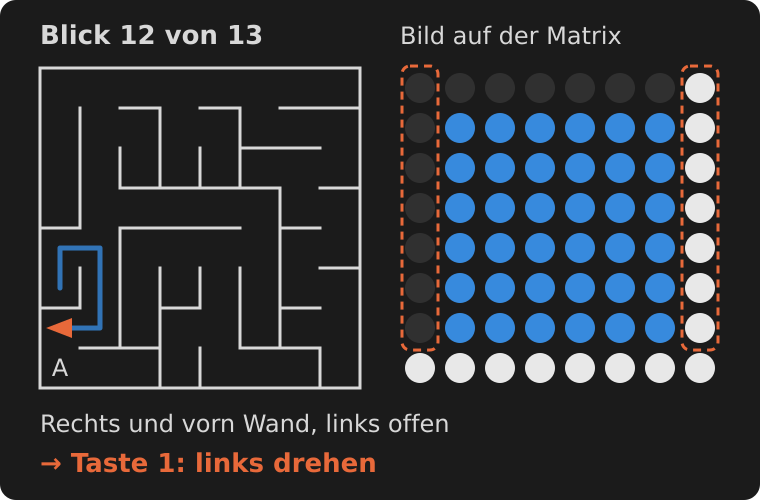
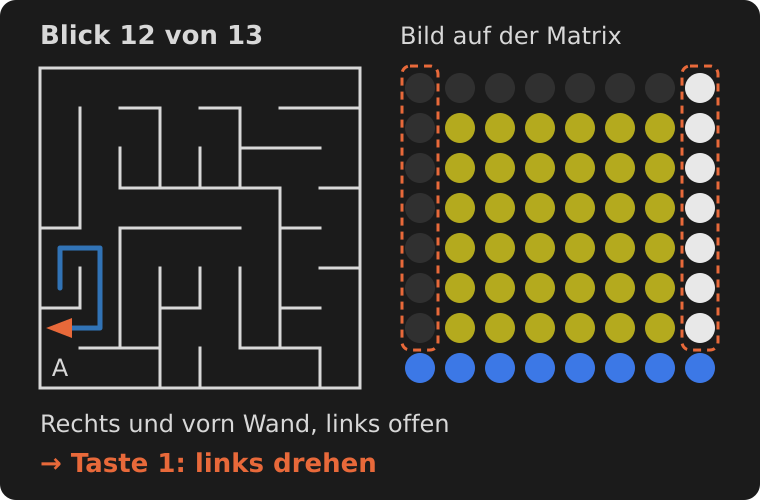
Version 14: Waende weiss, Boden blau, je drei Helligkeitsstufen; Stirnwand dunkles Gelb
Claude-Session: https://claude.ai/code/session_01U7fekmFcKLeqN7GHxQrNkj

Changed region(s): [[0.5145, 0.21, 0.9382, 0.78]]

diff --git a/irrgarten_farben.py b/irrgarten_farben.py
@@ -1,22 +1,38 @@
 # Userscript fuer den 3D-Irrgarten (irrgarten.mic) auf dem ESP2090 Studio
-# Setzt die Farbmatrix und endet. Seitenwaende und Boden eines Raums bilden einen Ring in einer Farbe,
-#   zur Ferne hin dunkler: weiss (1. Raum), gelb (2. Raum), orange (3. Raum).
+# Setzt die Farben und endet: Seitenwaende weiss, Boden blau, beide zur Ferne in drei Stufen dunkler,
+#   Stirnwand dunkles Gelb.
 # Einmal nach dem Einschalten des ESP starten ("Run"), die Matrix muss eingeschaltet sein ("LED on").
 # Fuer weitere RUNs ist es nicht noetig. Nach einer Aenderung der Farben hier: noch einmal starten, dann RUN.
-# Die Stirnwand (blau) und das Loch am Ausgang (schwarz) faerbt das Programm selbst.
+#
+# setColors kennt nur zehn Farbnamen. Deshalb legt das Script eigene Farbwerte (r, g, b) auf einige
+# dieser Namen. Das gilt bis zum Neustart des ESP, auch fuer andere Programme.
+# Die Stirnwand zeichnet das Programm mit Farbe 13 (Vorgabe: oliv), das Loch am Ausgang mit 0 (schwarz).
 
-N, M, F = "weiss", "gelb", "orange"        # Ring nah, mittel, fern
-_ = "schwarz"                              # hier leuchtet nur die Stirnwand, Farbe egal
+WAND = ((10, 10, 10), (6, 6, 6), (3, 3, 3))     # nah, mittel, fern
+BODEN = ((0, 0, 10), (0, 0, 6), (0, 0, 4))      # nah, mittel, fern (nicht dunkler: sonst sieht man das Loch kaum)
+STIRNWAND = (6, 6, 0)
+
+setPalette(9, WAND[0])          # "weiss"
+setPalette(8, WAND[1])          # "magenta"
+setPalette(7, WAND[2])          # "violett"
+setPalette(6, BODEN[0])         # "blau"
+setPalette(5, BODEN[1])         # "tuerkis"
+setPalette(4, BODEN[2])         # "gruen"
+setPalette(13, STIRNWAND)       # Farbe 13 (oliv), nur im Programm benutzt
+
+W1, W2, W3 = "weiss", "magenta", "violett"     # Waende nah, mittel, fern
+B1, B2, B3 = "blau", "tuerkis", "gruen"        # Boden nah, mittel, fern
+_ = "schwarz"                                  # hier leuchtet nur die Stirnwand, Farbe egal
 
 farben = [
-    [N, _, _, _, _, _, _, N],
-    [N, M, _, _, _, _, M, N],
-    [N, M, F, _, _, F, M, N],
-    [N, M, F, _, _, F, M, N],
-    [N, M, F, _, _, F, M, N],
-    [N, M, F, F, F, F, M, N],
-    [N, M, M, M, M, M, M, N],
-    [N, N, N, N, N, N, N, N],
+    [W1, _,  _,  _,  _,  _,  _,  W1],
+    [W1, W2, _,  _,  _,  _,  W2, W1],
+    [W1, W2, W3, _,  _,  W3, W2, W1],
+    [W1, W2, W3, _,  _,  W3, W2, W1],
+    [W1, W2, W3, _,  _,  W3, W2, W1],
+    [W1, W2, B3, B3, B3, B3, W2, W1],
+    [W1, B2, B2, B2, B2, B2, B2, W1],
+    [B1, B1, B1, B1, B1, B1, B1, B1],
 ]
 
 setColors([c for zeile in farben for c in zeile])

diff --git a/README.md b/README.md
@@ -23,15 +23,15 @@ Für jeden weiteren RUN reichen RESET und RUN. Das Userscript braucht es nur noc
 
 Die Matrix muss wach sein. Hat ein anderes Programm sie schlafen gelegt, wartet der Irrgarten, bis sie geweckt wird.
 
-**Ohne Userscript** läuft das Programm auch und bleibt spielbar: Seitenwände und Boden sind dann alle rot, die Standardfarbe der Matrix. Stirnwand und Loch färbt das Programm selbst, sie bleiben blau und dunkel. So sieht es auch im Emulator2090 aus, der keine Userscripts kennt.
+**Ohne Userscript** läuft das Programm auch und bleibt spielbar: Seitenwände und Boden sind dann alle rot, die Standardfarbe der Matrix. Stirnwand und Loch färbt das Programm selbst, die Stirnwand ist dann oliv, das Loch dunkel. So sieht es auch im Emulator2090 aus, der keine Userscripts kennt.
 
 ## Bild
 
 - **Sichttiefe:** 3 Räume. Bleibt die Mitte dunkel, geht der Gang noch weiter.
-- **Ringe nach Entfernung:** Seitenwände und Boden eines Raums bilden einen Ring in einer Farbe, zur Ferne hin dunkler: weiß, gelb, orange für den 1., 2. und 3. Raum. Das gibt den Eindruck eines Tunnels.
-- **Boden:** die untersten drei Zeilen mit 8, 6 und 4 LEDs.
-- **Seitenwände:** Spalte 1/8, 2/7 und 3/6 für den 1., 2. und 3. Raum. Eine Öffnung zur Seite bleibt dunkel.
-- **Stirnwand:** blau, ein Quadrat in der Mitte mit 6, 4 oder 2 LEDs Kante, je nach Entfernung.
+- **Helligkeit nach Entfernung:** Seitenwände und Boden werden zur Ferne hin in drei Stufen dunkler, wie Licht, das sich im Gang verliert.
+- **Seitenwände:** weiß, in Spalte 1/8, 2/7 und 3/6 für den 1., 2. und 3. Raum. Eine Öffnung zur Seite bleibt dunkel.
+- **Boden:** blau, die untersten drei Zeilen mit 8, 6 und 4 LEDs.
+- **Stirnwand:** dunkles Gelb, ein Quadrat in der Mitte mit 6, 4 oder 2 LEDs Kante, je nach Entfernung.
 - **Ausgang:** ein dunkles Loch im Boden direkt vor der Stirnwand, so breit wie sie.
 
 ## Bedienung
@@ -53,8 +53,9 @@ Dass nach dem Finden des Ausgangs gleich ein neuer Irrgarten kommt, scheint viel
 
 ## Farben ändern
 
-- **Seitenwände und Boden:** im Userscript, `N, M, F` für die Ringe nah, mittel, fern. Möglich sind die Farbnamen von `setColors`. Nach einer Änderung das Userscript noch einmal starten, dann RESET und RUN.
-- **Stirnwand:** im Programm an Adresse 88, Befehl `168`. Die mittlere Ziffer ist die Farbnummer der Matrix (6 = blau).
+- **Seitenwände, Boden und Stirnwand:** im Userscript, `WAND`, `BODEN` (je nah, mittel, fern) und `STIRNWAND` als Farbwerte (r, g, b). Nach einer Änderung das Userscript noch einmal starten, dann RESET und RUN.
+- **Wie das geht:** `setColors` kennt nur zehn Farbnamen. Das Script legt deshalb mit `setPalette` eigene Werte auf einige Namen (weiß, magenta, violett, blau, türkis, grün) und auf Farbe 13 für die Stirnwand. Das gilt bis zum Neustart des ESP, auch für andere Programme, die diese Farben benutzen.
+- **Stirnwand im Programm:** an Adresse 88, Befehl `1D8` (Farbe 13). Ohne Userscript ist sie oliv.
 - **Loch am Ausgang:** im Programm an Adresse 7C, Befehl `108` (0 = schwarz).
 
 ## Immer an der Wand lang...
